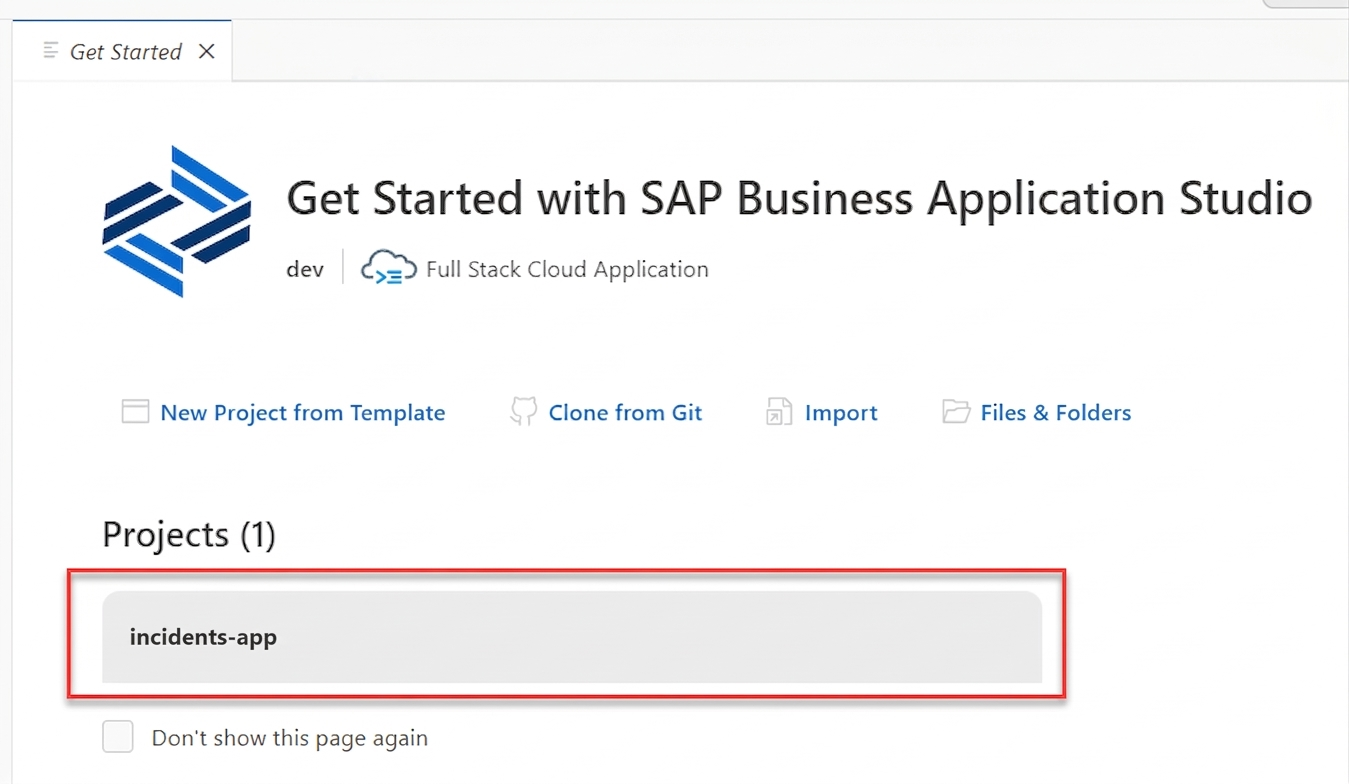
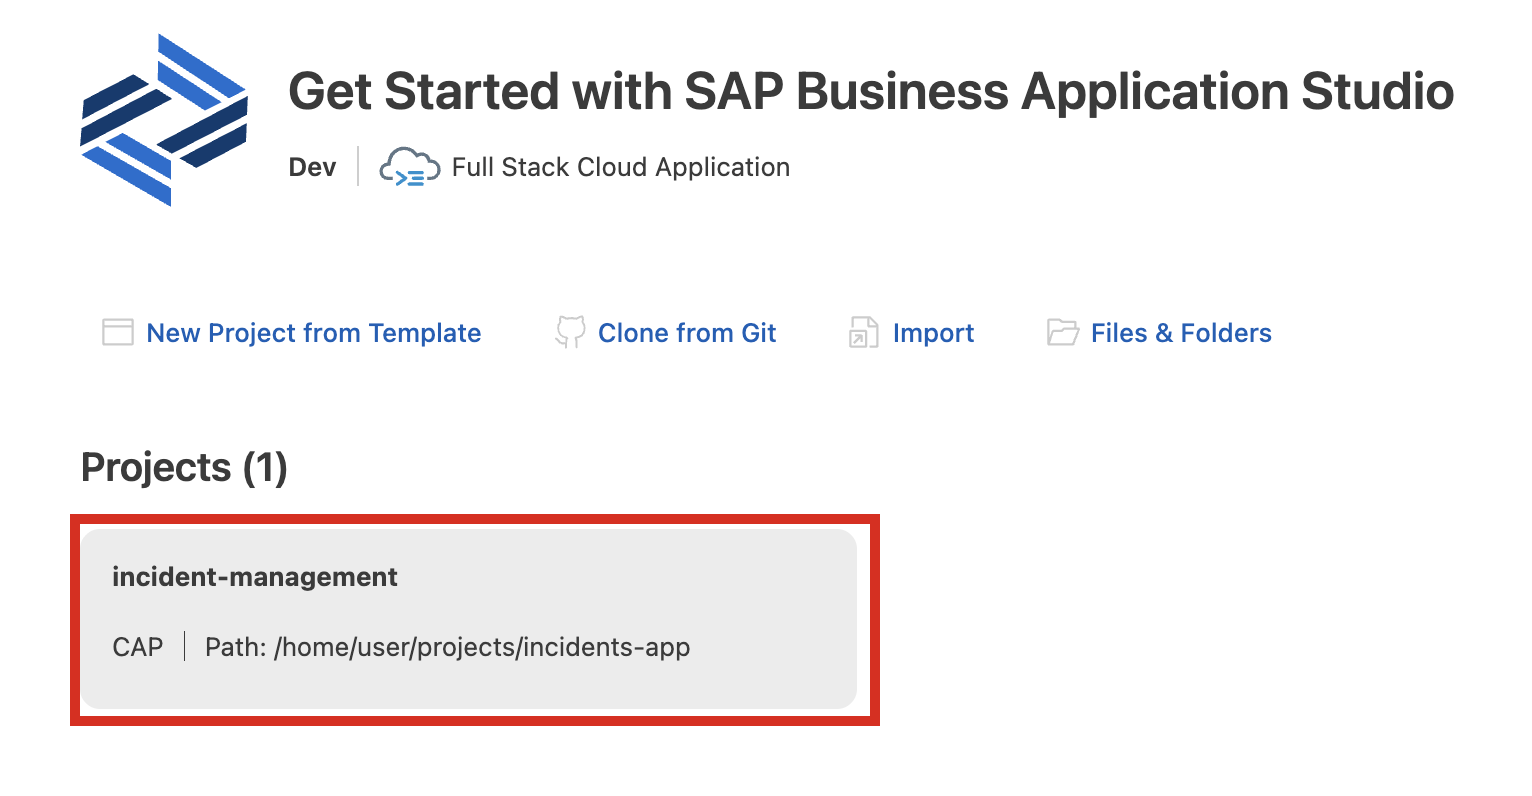
docs update

diff --git a/topic2/part1/clone.md b/topic2/part1/clone.md
@@ -55,7 +55,7 @@ cd projects
 
   ![Alt text](img/0060-git-clone-url.png) 
 
-4. After the cloning has been finished you will see a new project **incidents-app** in the **Get Started** window. Just select it to open.
+4. After the cloning has been finished you will see a new project **incident-management** in the **Get Started** window. Just select it to open.
 
   ![Alt text](img/0070-open-project.png) 
 
